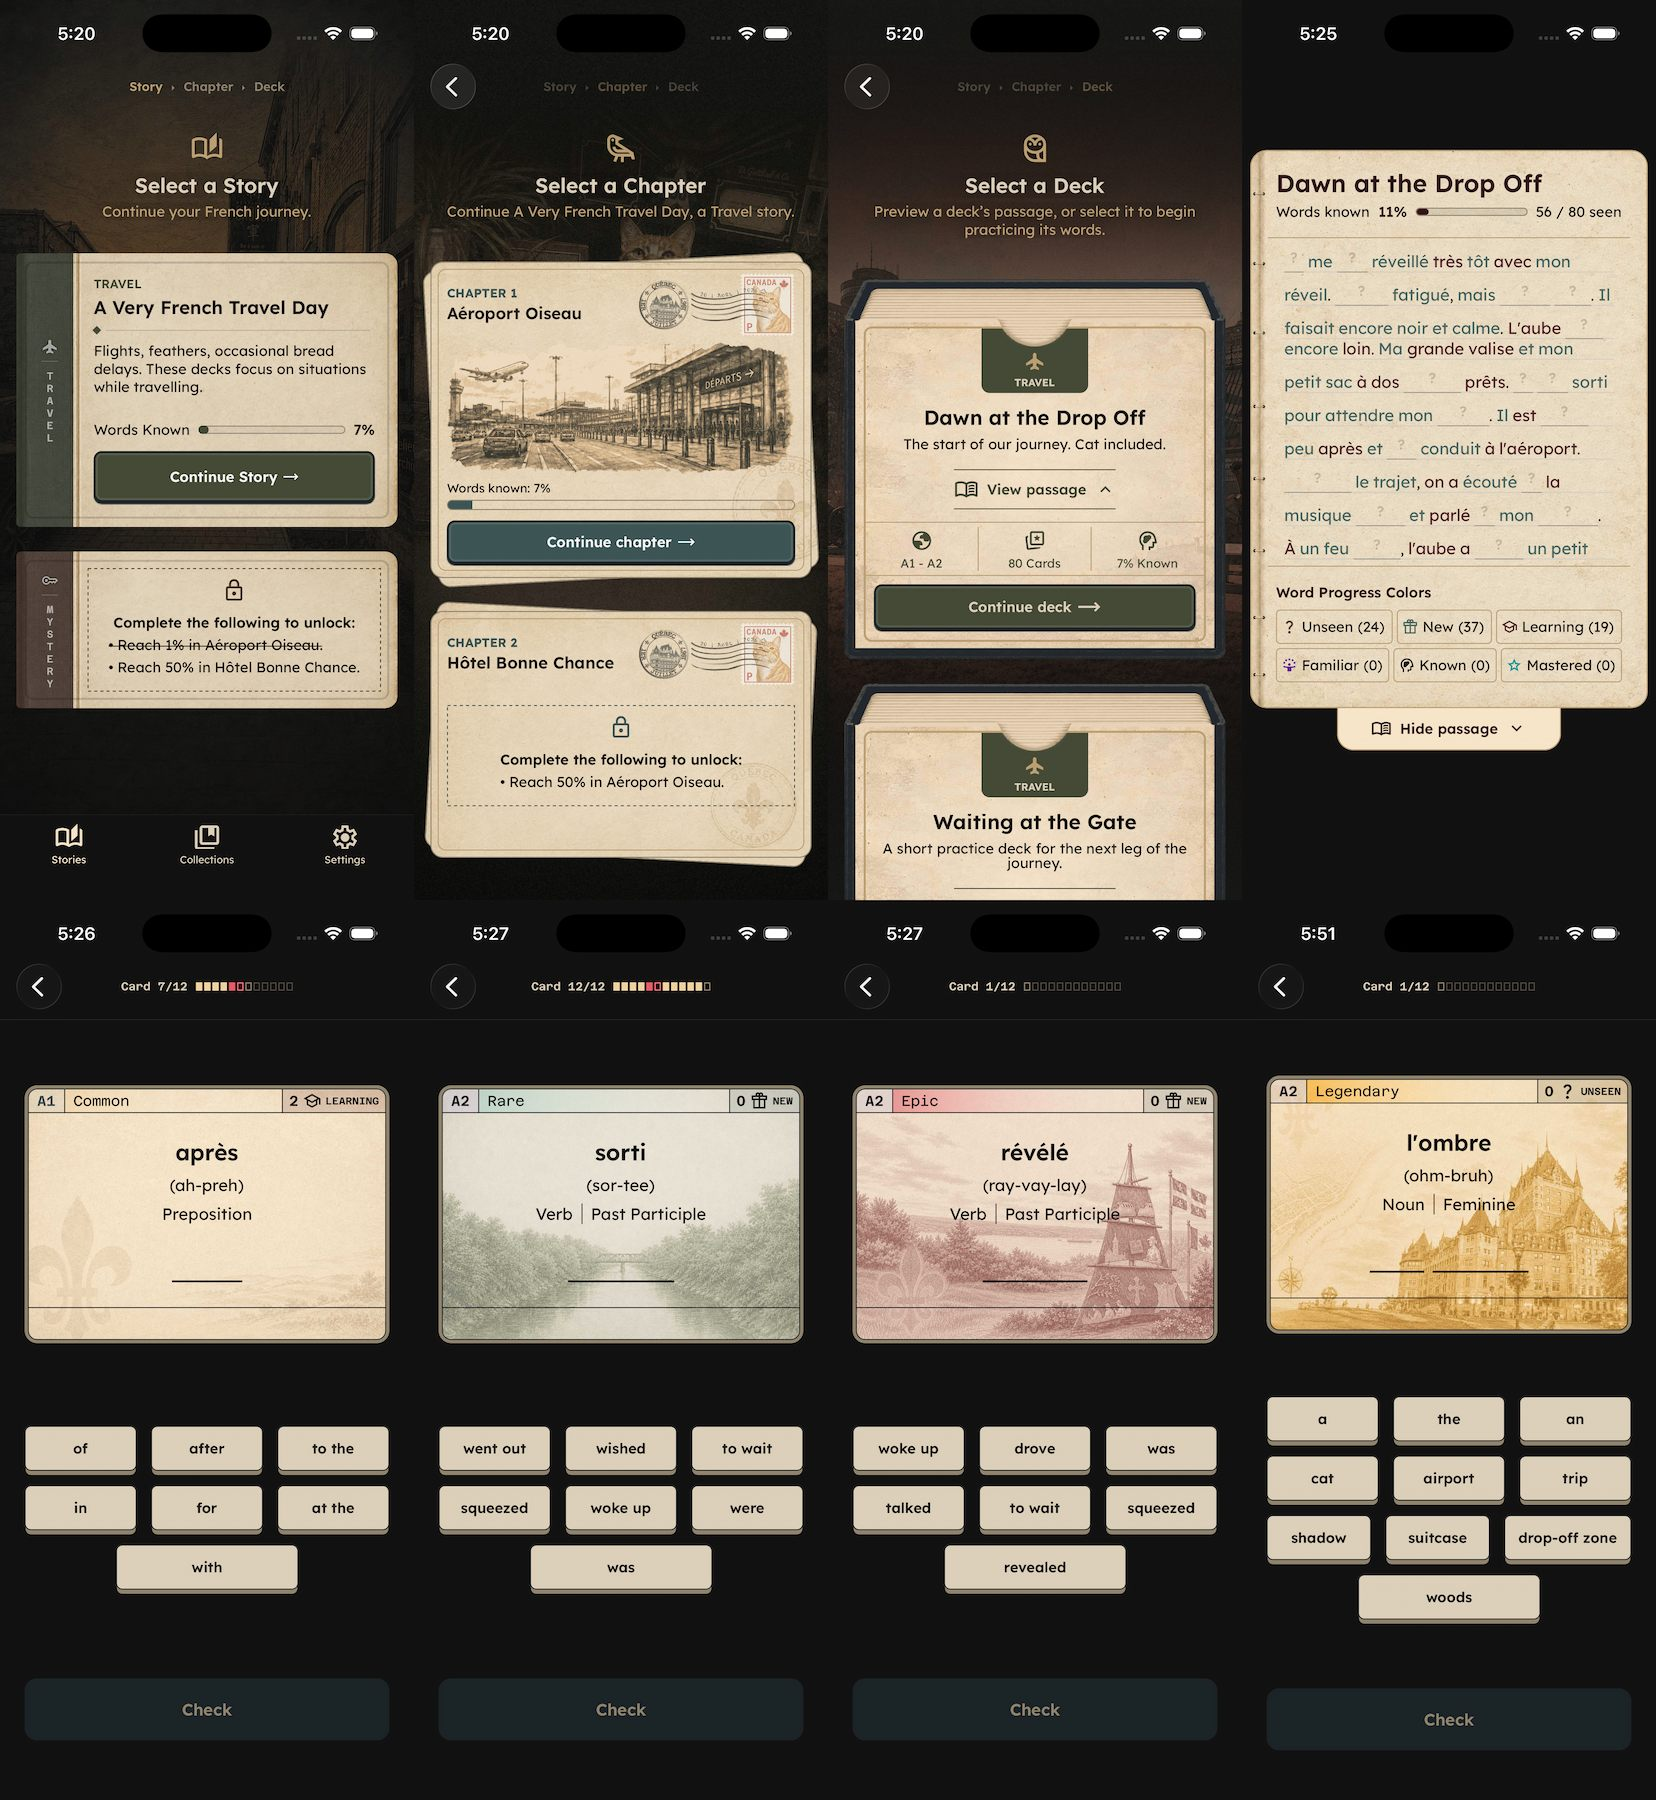
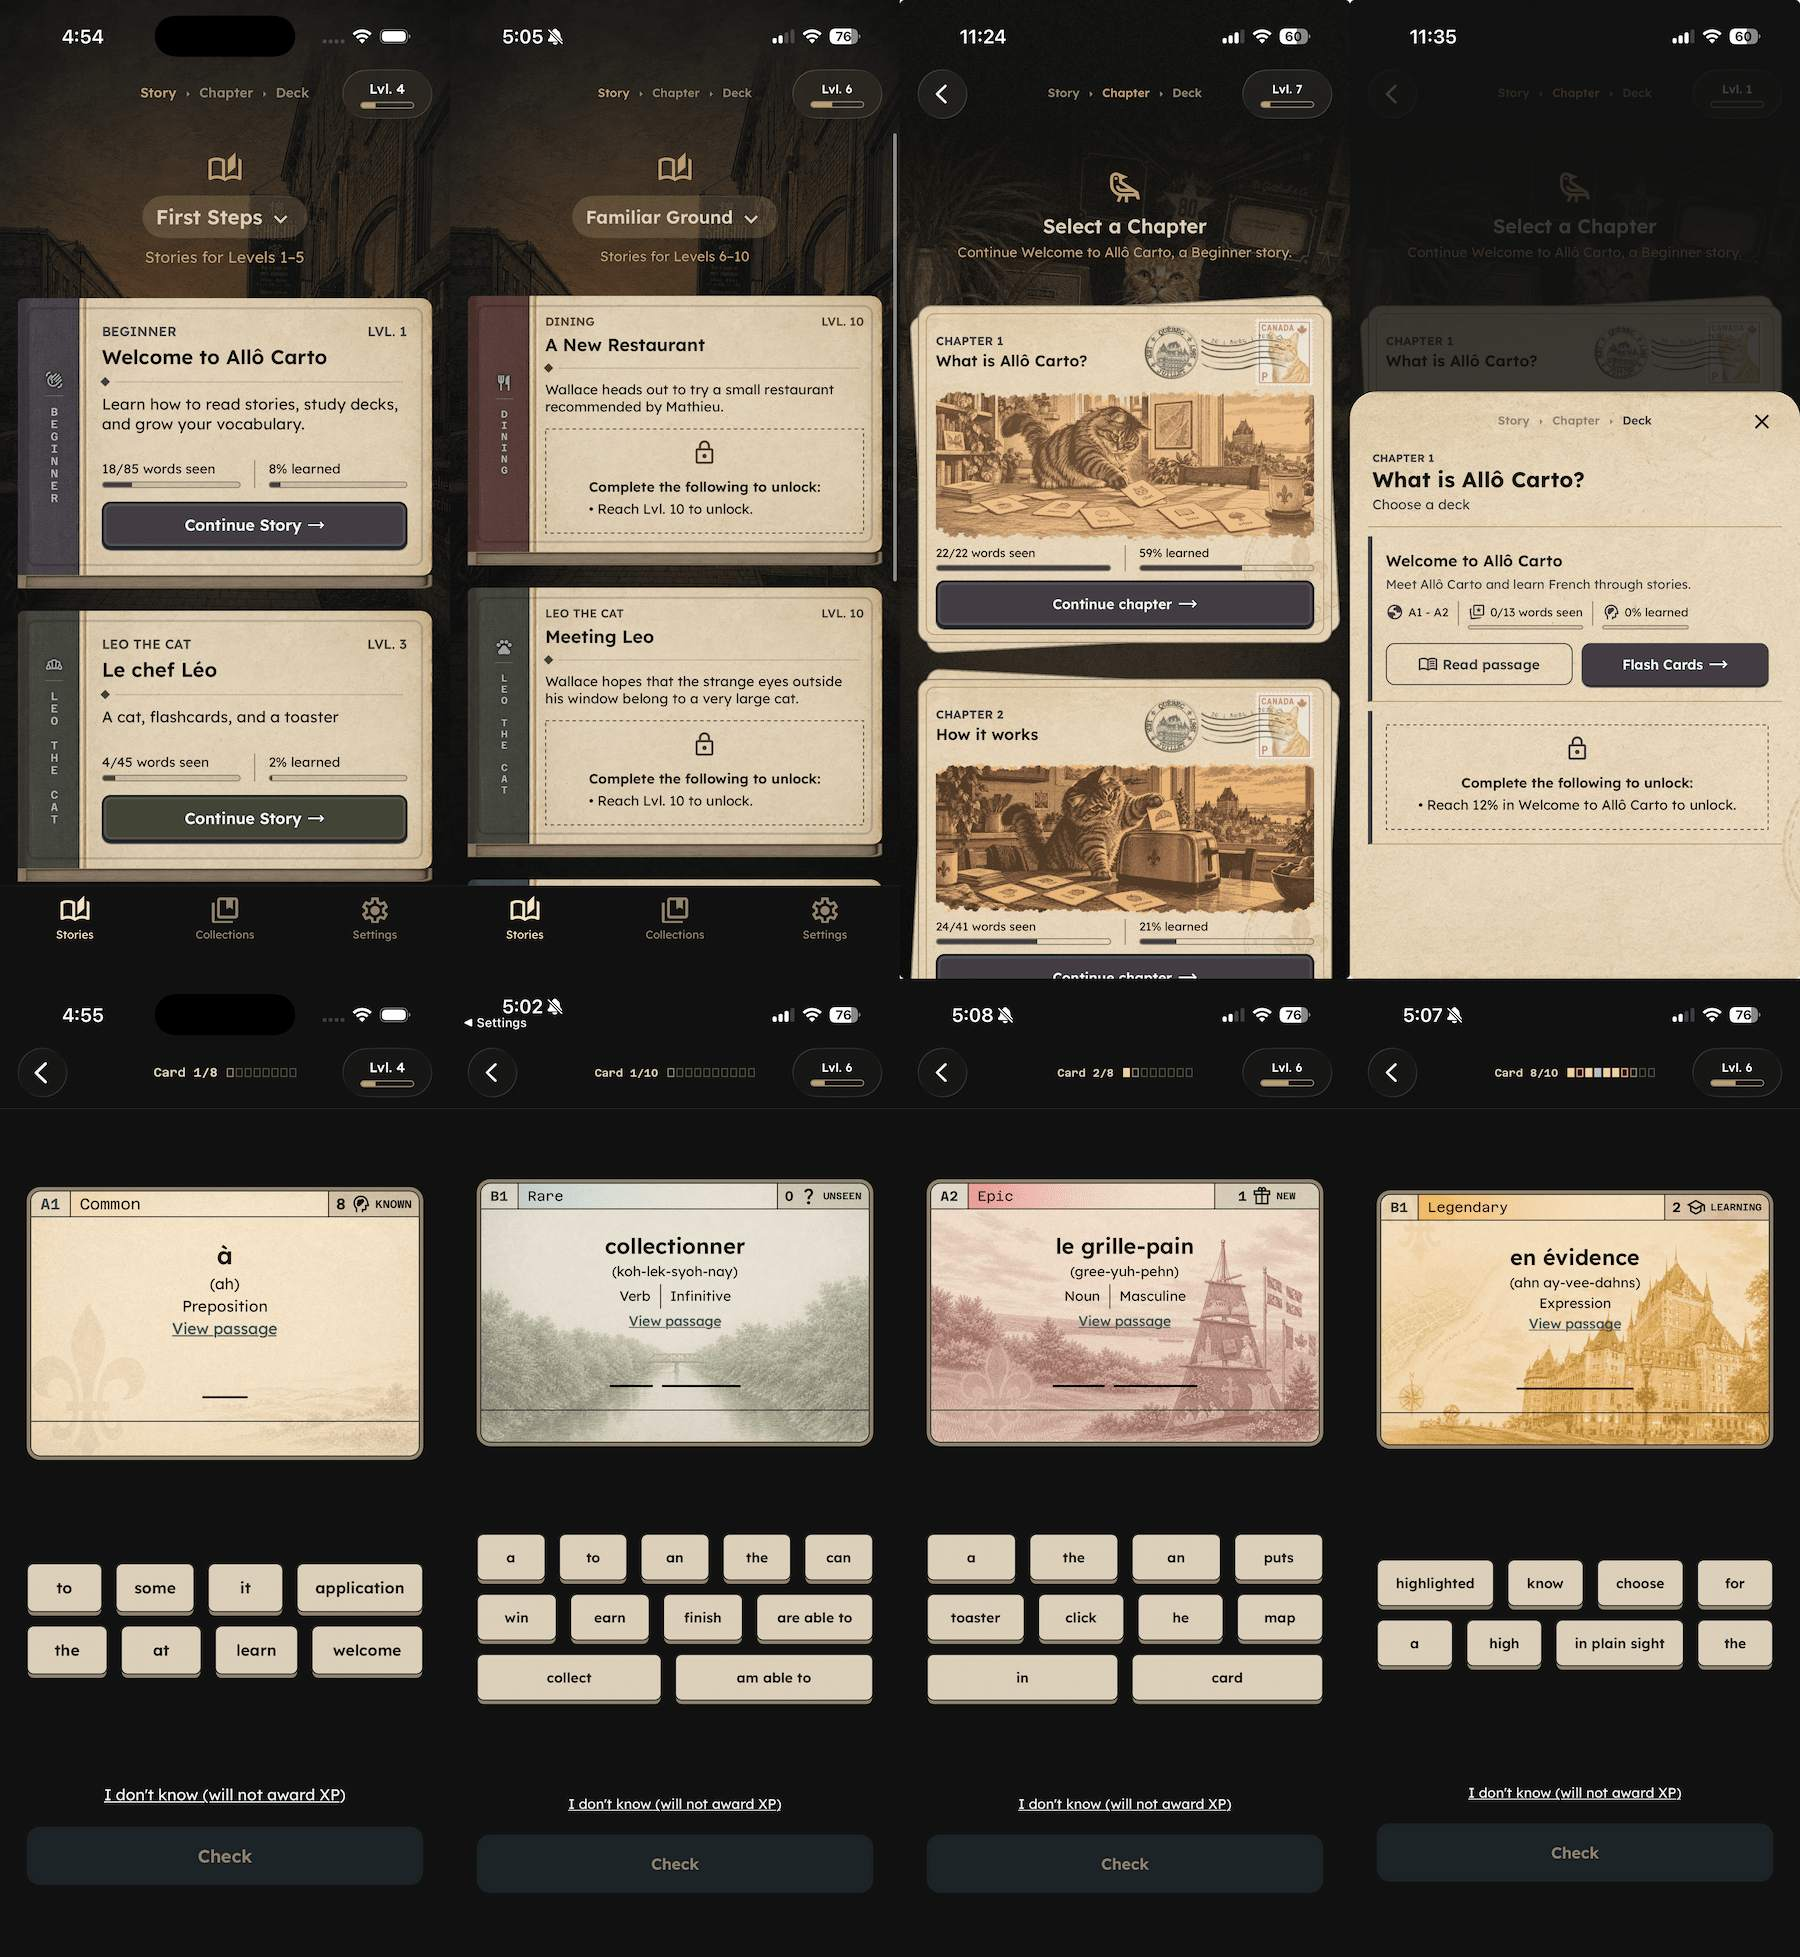
feat: updated rarities and preview

diff --git a/data/french/words/words_welcome_to_allo_carto.ts b/data/french/words/words_welcome_to_allo_carto.ts
@@ -131,7 +131,7 @@ export const words_welcome_to_allo_carto: Word[] = [
 		pronunciation: 'ah-prahn-tee-sahzh',
 		CEFR: 'B1',
 		partOfSpeech: 'noun',
-		rarity: 'Rare',
+		rarity: 'Epic',
 		frenchArticle: "l'",
 		englishArticle: 'the',
 		gender: 'Masculine',
@@ -341,7 +341,7 @@ export const words_welcome_to_allo_carto: Word[] = [
 		pronunciation: 'koh-rekt-mahn',
 		CEFR: 'A2',
 		partOfSpeech: 'adverb',
-		rarity: 'Common',
+		rarity: 'Epic',
 		lemmaId: 'correctement',
 	}),
 	defineWord({
@@ -489,7 +489,7 @@ export const words_welcome_to_allo_carto: Word[] = [
 		pronunciation: 'ahn ay-vee-dahns',
 		CEFR: 'B1',
 		partOfSpeech: 'expression',
-		rarity: 'Rare',
+		rarity: 'Legendary',
 	}),
 	defineWord({
 		id: 'word_determiner_certains',
@@ -557,7 +557,7 @@ export const words_welcome_to_allo_carto: Word[] = [
 		pronunciation: 'koh-lek-syoh-nay',
 		CEFR: 'B1',
 		partOfSpeech: 'verb',
-		rarity: 'Rare',
+		rarity: 'Epic',
 		lemmaId: 'word_verb_collectionner',
 		form: 'infinitive',
 		englishArticle: 'to',

diff --git a/data/french/words/words_le_chef_leo.ts b/data/french/words/words_le_chef_leo.ts
@@ -76,7 +76,7 @@ export const words_le_chef_leo: Word[] = [
 		pronunciation: 'gree-yuh-pehn',
 		CEFR: 'A2',
 		partOfSpeech: 'noun',
-		rarity: 'Rare',
+		rarity: 'Epic',
 		frenchArticle: 'le',
 		englishArticle: 'the',
 		gender: 'Masculine',
@@ -140,7 +140,7 @@ export const words_le_chef_leo: Word[] = [
 		pronunciation: 'kleek',
 		CEFR: 'A2',
 		partOfSpeech: 'interjection',
-		rarity: 'Rare',
+		rarity: 'Epic',
 	}),
 	defineWord({
 		id: 'word_verb_chauffe',
@@ -209,7 +209,7 @@ export const words_le_chef_leo: Word[] = [
 		pronunciation: 'few-may',
 		CEFR: 'A2',
 		partOfSpeech: 'noun',
-		rarity: 'Common',
+		rarity: 'Epic',
 		frenchArticle: 'la',
 		englishArticle: 'the',
 		gender: 'Feminine',
@@ -223,7 +223,7 @@ export const words_le_chef_leo: Word[] = [
 		pronunciation: 'day-brahnsh',
 		CEFR: 'A2',
 		partOfSpeech: 'verb',
-		rarity: 'Rare',
+		rarity: 'Legendary',
 		lemmaId: 'word_verb_debrancher',
 		form: 'present',
 		tense: 'présent',
